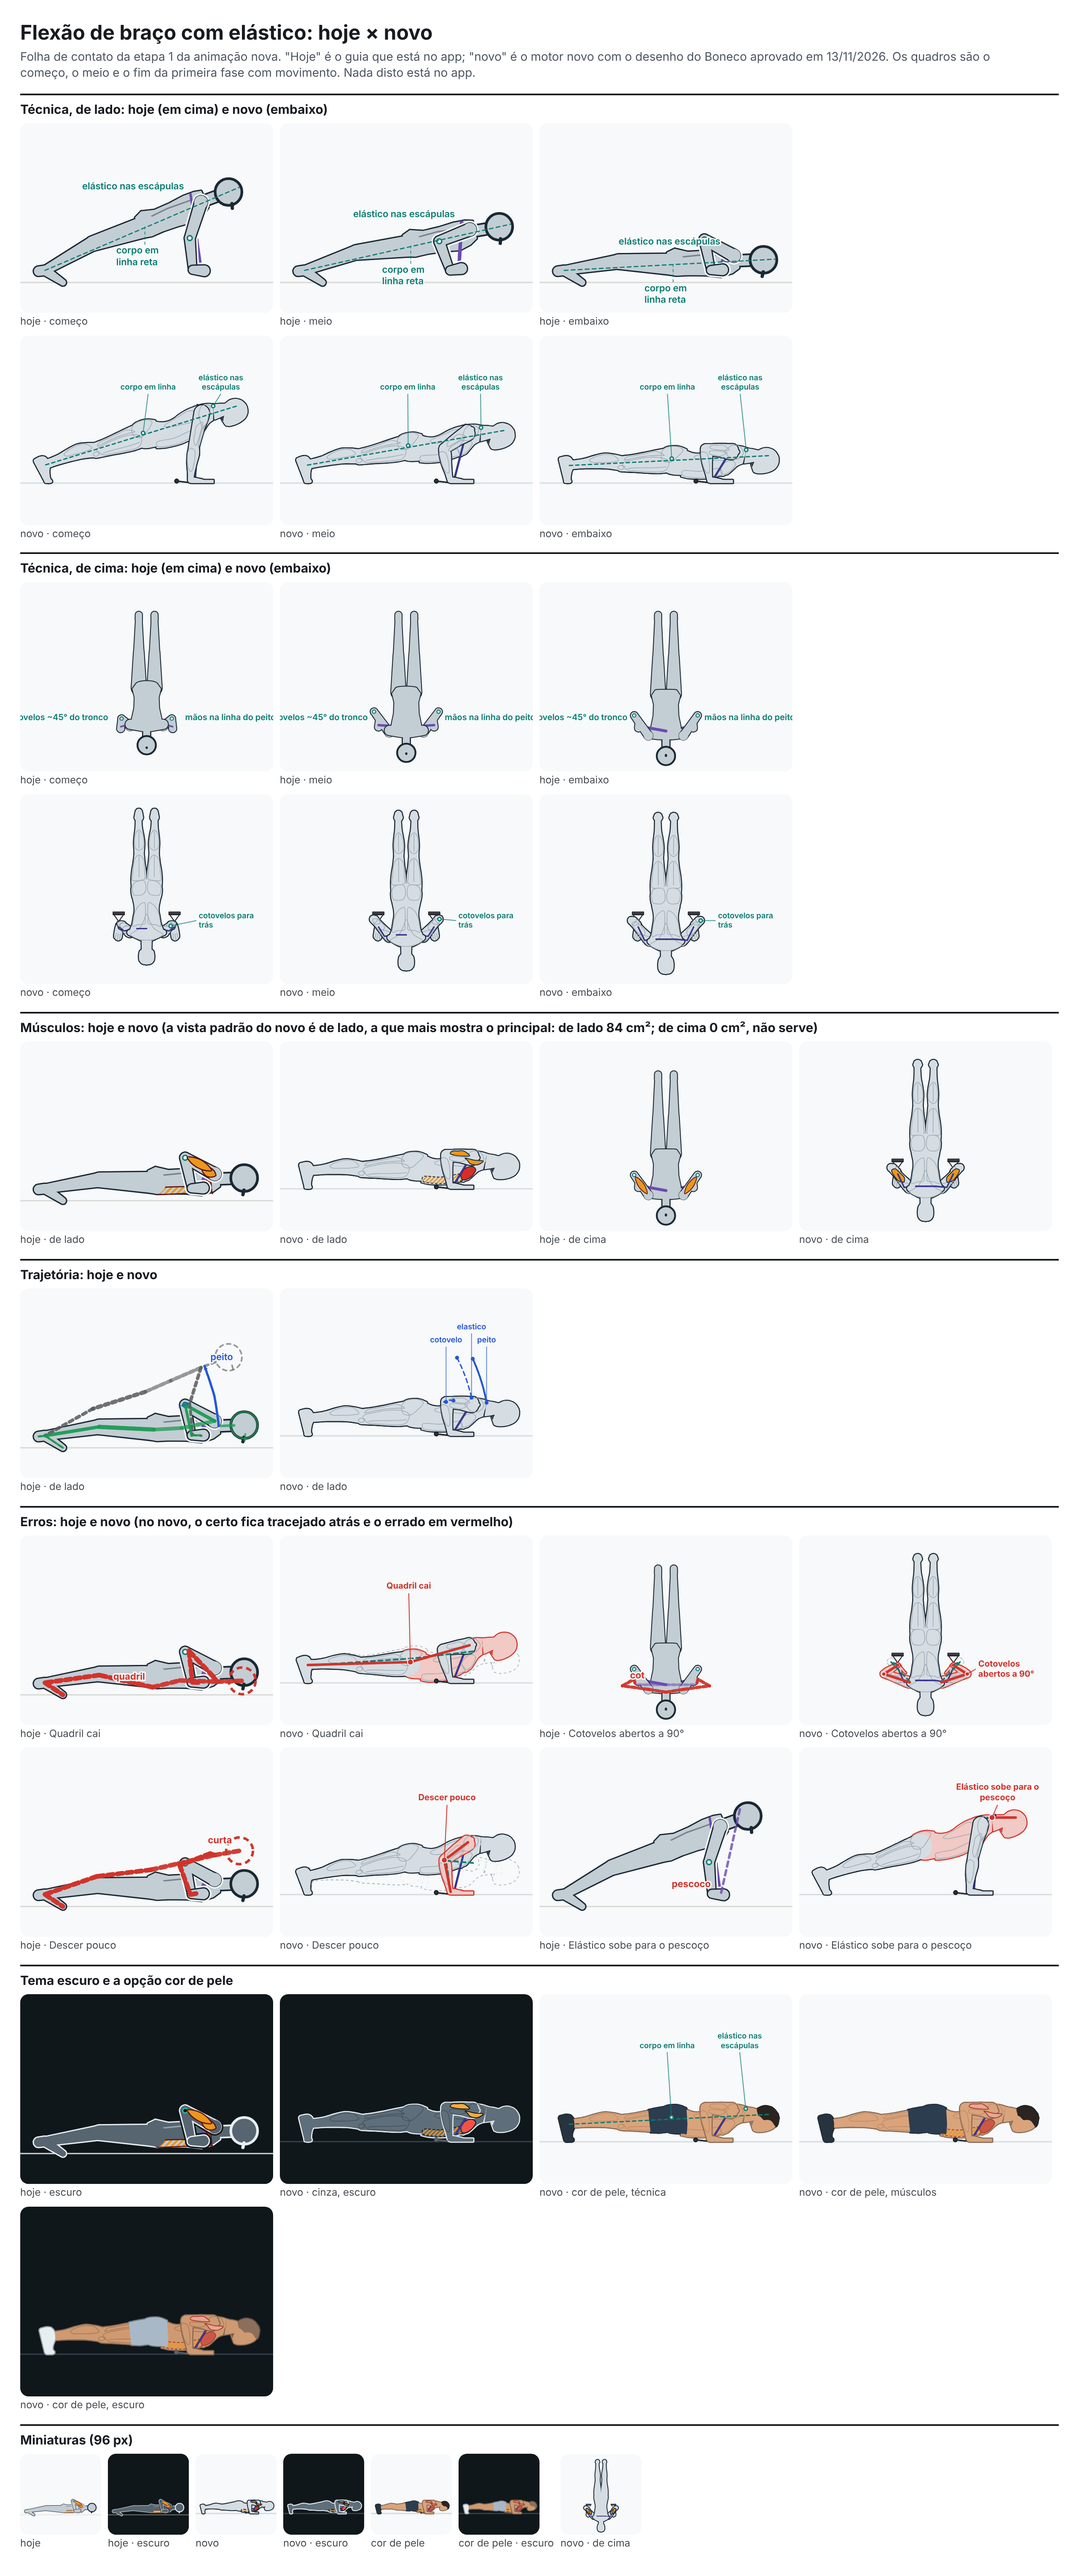
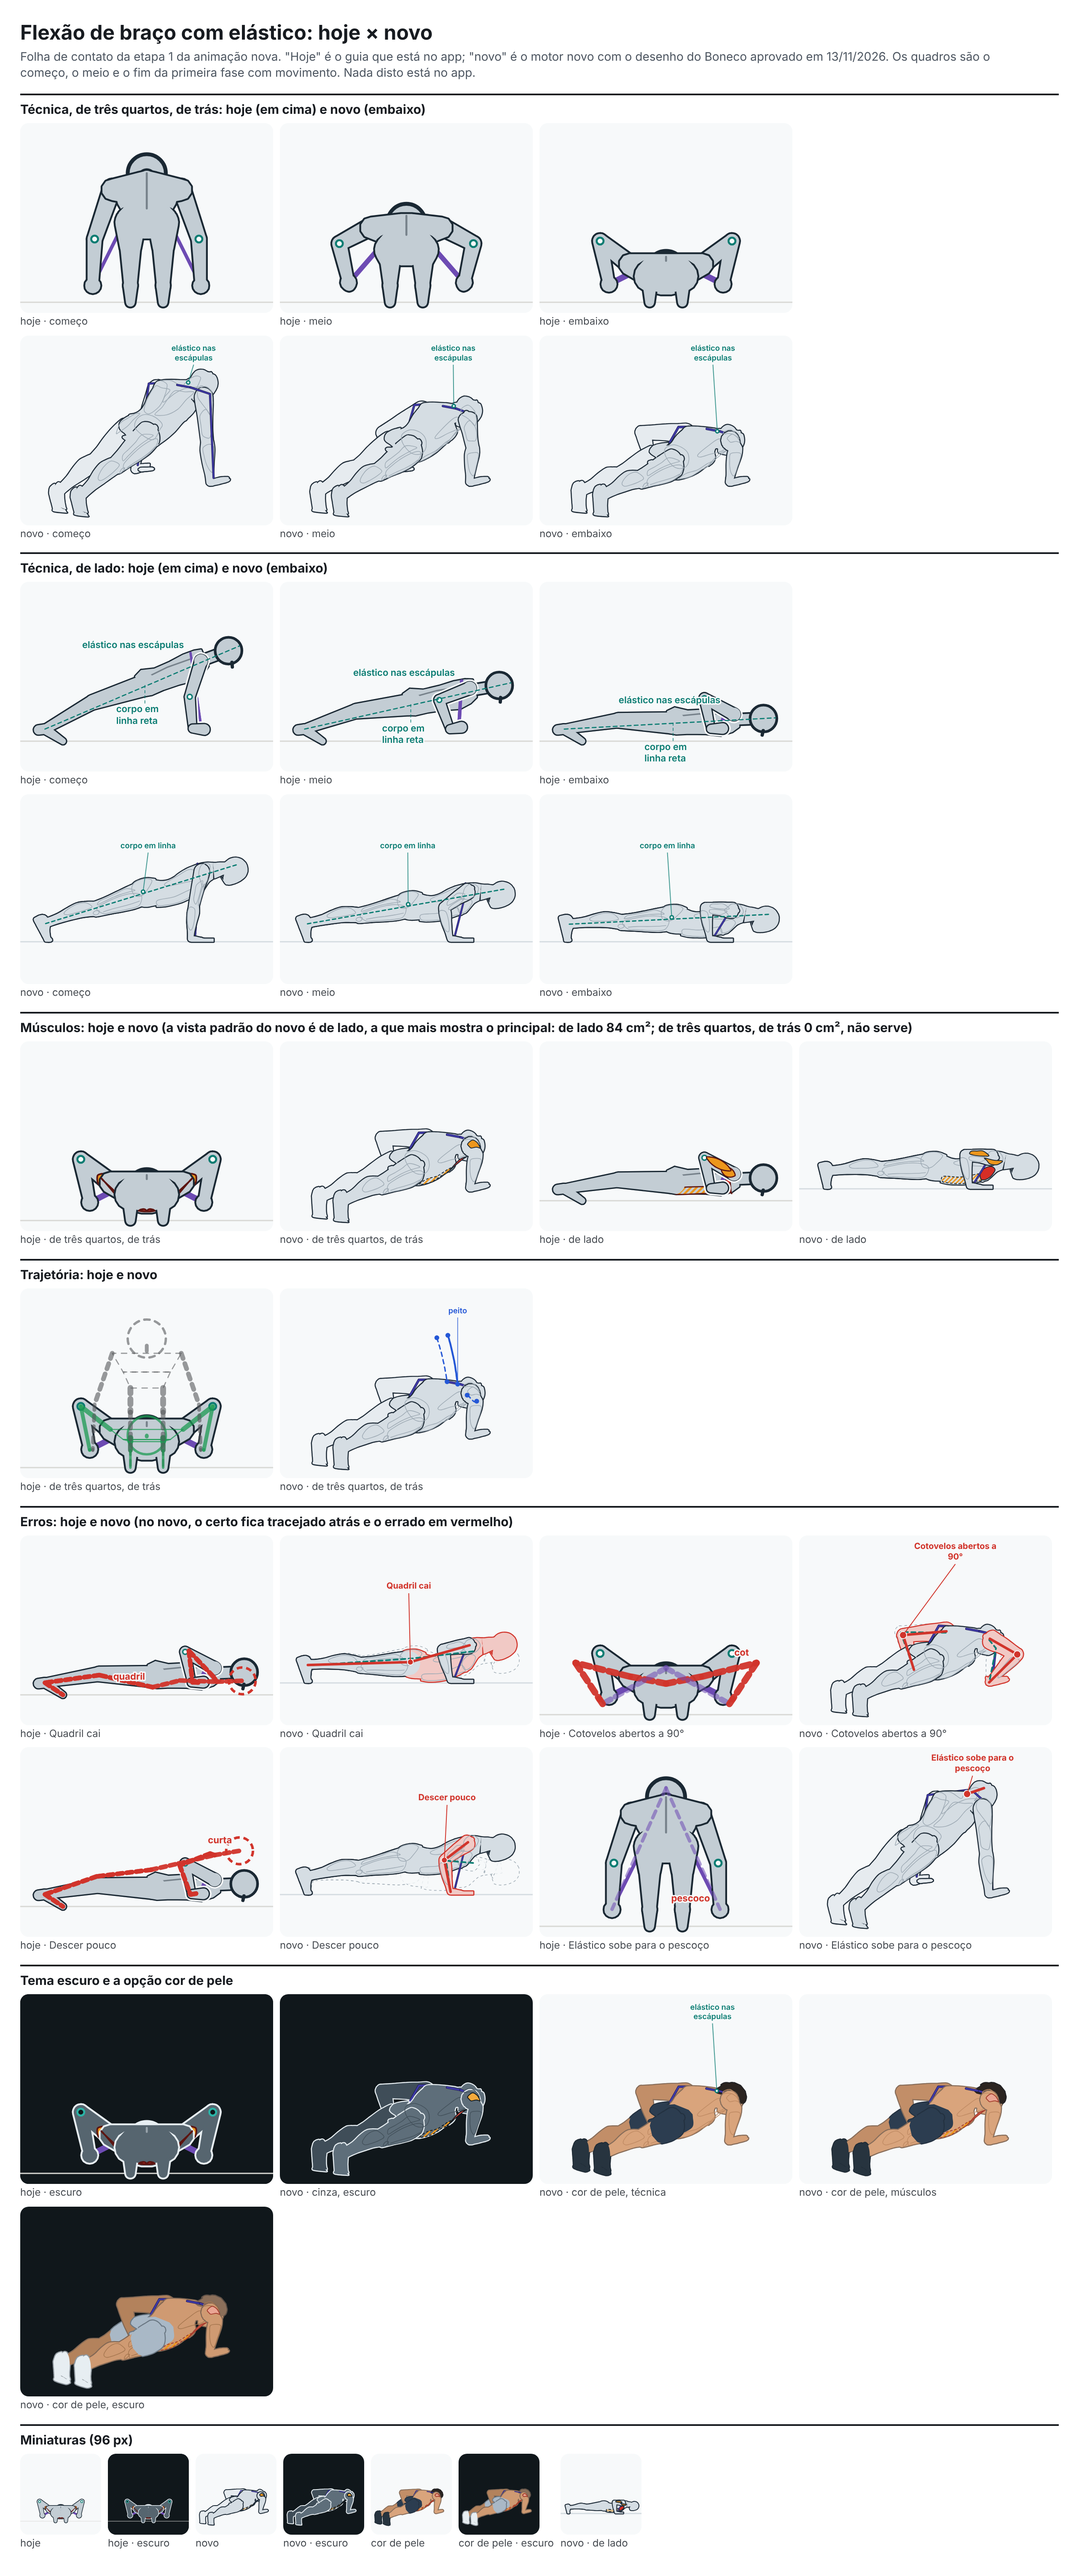
Correção: flexão com elástico vista de três quartos por trás, onde o elástico aparece
De lado o elástico sumia atrás do braço: a vista padrão passa a ser a de três quartos
de trás, e a de lado fica como segunda. Sai o pegador no chão (lia-se como halter);
o erro do pescoço não pinta mais o corpo.

Claude-Session: https://claude.ai/code/session_01YRzts7dTzBdkrmTDEnq8bW

diff --git a/src/engine/novo/exercicios/flexao-elastico.ts b/src/engine/novo/exercicios/flexao-elastico.ts
@@ -2,7 +2,7 @@
 // movimento é o da flexão (núcleo ./flexionar.ts). O elástico é o tubo da tabela de objetos: o meio dele passa pelas
 // costas, na altura das escápulas, e cada ponta dá uma volta na mão e fica presa entre a palma e o chão. O tubo
 // segue a pele das costas (medida na superfície do Boneco), desce pelo lado de fora do braço até o dorso da mão, e
-// estica mais em cima, onde as costas ficam mais longe do chão. O pegador fica no chão, ao lado da mão.
+// estica mais em cima, onde as costas ficam mais longe do chão.
 import ficha from '../dados/movimentos/flexao-elastico.json';
 import { pontosDoBoneco } from '../boneco';
 import { sinal } from '../esqueleto';
@@ -57,13 +57,8 @@ function cena(q: Quadro, corpo: Corpo, _u: number, erro?: string): void {
   // o tubo inteiro: o caminho entre as mãos e uma volta em cada mão
   const comp = caminho + 2 * f('elastico.voltaNaMao');
   const pecas: Peca[] = [{ t: 'elastico', pts, estica: comp / obj('elastico', 'comp') }];
-  for (const k of ['R', 'L'] as Lado[]) {
-    // o pegador no chão, logo atrás da mão (para o lado dos pés), preso à ponta do tubo que sai debaixo da palma
-    const P = palma(k),
-      saida: V3 = [P[0], P[1], e.lado[k].punho[2] - corpo.m('raio.punho')];
-    const pegada: V3 = [P[0], obj('elastico', 'pegadorDiam') / 2, saida[2] - obj('elastico', 'fita')];
-    pecas.push({ t: 'pegador', pegada, eixo: [1, 0, 0], ponta: saida });
-  }
+  // Sem pegador à vista: a ponta dá a volta na mão e fica presa sob a palma (o "elástico longo" do texto do app). O
+  // pegador no chão, ao lado da mão, se lia como um halter e cruzava o corpo na vista de três quartos.
   q.pecas = [...(q.pecas ?? []), ...pecas];
   q.prims.push({ t: 'fio', pts, larg: obj('elastico', 'tuboDiam'), cls: 'fita' });
   q.fios.push({ id: 'elastico', comp, estica: true });
@@ -75,7 +70,7 @@ const A = criarFlexao(ficha, { cena });
 
 export const flexaoElastico: Exercicio = {
   ficha: A.ficha,
-  vistas: ['lateral', 'cima'],
+  vistas: ['quinaTras', 'lateral'],
   quadro: A.quadro,
   // peito principal; tríceps e frente do ombro secundários; o abdômen "só ajuda" (como na flexão e na animação de hoje)
   papeis: { peitoral: 'p', deltAnt: 's', triceps: 's', abdomen: 'a' },

diff --git a/docs/revisoes/animacao-nova/lote-2/flexao-elastico.md b/docs/revisoes/animacao-nova/lote-2/flexao-elastico.md
@@ -1,6 +1,6 @@
 # Lote 2 · Flexão de braço com elástico (`flexao-elastico`)
 
-De 15/11/2026. Terceira animação do lote 2. Ainda não aprovada nem ligada às telas do app.
+De 15/11/2026, revista na rodada de correção do mesmo dia (o elástico não aparecia de lado: a vista padrão passou a ser a de três quartos, de trás; o pegador no chão saiu). Terceira animação do lote 2. Ainda não aprovada nem ligada às telas do app.
 
 - Ficha da técnica: `docs/pesquisa/animacoes/flexao-elastico.md`.
 - Ficha de movimento: `src/engine/novo/dados/movimentos/flexao-elastico.json`.
@@ -10,9 +10,9 @@ De 15/11/2026. Terceira animação do lote 2. Ainda não aprovada nem ligada às
 
 ## O elástico: o tubo, e não a faixa
 
-A ficha diz "elásticos (qualquer intensidade)" e o texto do app, "um elástico com pegadores ou um elástico longo". Usei o **elástico em tubo com pegadores** da tabela de objetos (o do `agachamento-elastico`, aprovado: 121,9 cm de tubo, alongamento máximo de 3 vezes, medidas de fabricante). Não fiz a faixa chata: o texto do app aceita o tubo, e ele já tem medida com fonte; a faixa longa seria um objeto novo sem ficha de fabricante lida. O tubo afina ao esticar (o desenho do `elastico` do motor).
+A ficha diz "elásticos (qualquer intensidade)" e o texto do app, "um elástico com pegadores ou um elástico longo". Usei o **elástico em tubo** da tabela de objetos (o do `agachamento-elastico`, aprovado: 121,9 cm de tubo, alongamento máximo de 3 vezes, medidas de fabricante). Não fiz a faixa chata: o texto do app aceita o tubo, e ele já tem medida com fonte; a faixa longa seria um objeto novo sem ficha de fabricante lida. O tubo afina ao esticar (o desenho do `elastico` do motor).
 
-Como ele fica: o meio passa pelas costas, sobre a pele (medida na superfície do Boneco), 12 cm abaixo da base do pescoço; de cada lado, passa por fora da parte de trás do ombro e desce até o dorso da mão; dá uma volta na mão (22 cm de tubo por volta, que entram na conta do alongamento) e a ponta fica presa sob a palma. O pegador sobra no chão, logo atrás da mão.
+Como ele fica: o meio passa pelas costas, sobre a pele (medida na superfície do Boneco), 12 cm abaixo da base do pescoço; de cada lado, passa por fora da parte de trás do ombro e desce até o dorso da mão; dá uma volta na mão (22 cm de tubo por volta, que entram na conta do alongamento) e a ponta fica presa sob a palma. Os pegadores não aparecem: a ponta dá a volta na mão e fica sob a palma, como o "elástico longo" do texto do app. Na primeira entrega, o pegador ficava no chão atrás da mão; ele se lia como um halter e, de três quartos, ficava pintado por cima da coxa.
 
 ## O que a fonte pede × o que o boneco faz (medido) × confere?
 
@@ -25,16 +25,16 @@ Como ele fica: o meio passa pelas costas, sobre a pele (medida na superfície do
 | Subida ~1 s até os braços estenderem | consenso | 1,0 s; em cima, o cotovelo dobra 10° | sim |
 | O elástico estica mais em cima | consenso (física) | estica 1,7 vez em cima (206,6 cm) e 1,2 vez embaixo (149,7 cm); nunca frouxo, longe das 3 vezes do fabricante | sim |
 
-Conferência automática: **0 falha**. Avisos: os mesmos da `flexao` (extensão do punho 94,3°, dedos do pé 76,1°, ritmo com salto de 16,2%, o abdômen listrado fora da lista do conteúdo, a vista de cima que não serve ao modo Músculos), mais as linhas de desenho da ficha (`elastico.voltaNaMao`, `elastico.folgaNasCostas`, `elastico.atrasDoOmbro`, além de `tornozelo.dorsiflexao` e `escapula.retracaoEmbaixo`).
+Conferência automática: **0 falha**. Avisos: os mesmos da `flexao` (extensão do punho 94,3°, dedos do pé 76,1°, ritmo com salto de 16,2%, o abdômen listrado fora da lista do conteúdo, a vista de três quartos, de trás, que não serve ao modo Músculos: o modo Músculos usa a de lado, com 84 cm²), mais as linhas de desenho da ficha (`elastico.voltaNaMao`, `elastico.folgaNasCostas`, `elastico.atrasDoOmbro`, além de `tornozelo.dorsiflexao` e `escapula.retracaoEmbaixo`).
 
 ## Erros
 
 | Erro (texto do app) | O que o boneco faz (medido) |
 |---|---|
 | Quadril cai (de lado) | o da `flexao`: a lombar arqueia 16°; ombro, quadril e tornozelo fazem 166°; a barriga para a 1 cm do chão |
-| Cotovelos abertos a 90° (de cima) | embaixo, o braço faz 72° com o tronco, visto de cima (o certo: 44°) |
+| Cotovelos abertos a 90° (de três quartos, de trás) | embaixo, o braço faz 72° com o tronco, visto de cima (o certo: 44°); de três quartos, os dois cotovelos se veem abertos |
 | Descer pouco (de lado) | para na metade: o peito fica a 16 cm do chão, o cotovelo dobra 78° |
-| Elástico sobe para o pescoço (de lado) | o corpo é o certo; o meio do elástico passa 3 cm acima da base do pescoço. O quadro parado é o de cima (instante 0), onde o elástico está mais esticado |
+| Elástico sobe para o pescoço (de três quartos, de trás) | o corpo é o certo e não fica pintado (só o elástico muda); o meio do elástico passa 3 cm acima da base do pescoço. O quadro parado é o de cima (instante 0), onde o elástico está mais esticado |
 
 ## Músculos
 
@@ -44,16 +44,29 @@ Principal: peitoral; secundários: tríceps e frente do ombro (biblioteca); o ab
 
 - 05/11/2026: o erro `pescoco` ("erro pequeno"), pedido pelo cartão. Respeitado.
 - 05/11/2026: o elástico afina quando estica e passa onde a ficha diz (aqui, pelas costas). Respeitado com o tubo.
-- 05/11/2026: "de cima, a faixa da flexão aparece só como dois trechos curtos". Aqui, de cima, o elástico aparece inteiro: atravessa as costas e desce pelos ombros até as mãos.
+- 05/11/2026: "de cima, a faixa da flexão aparece só como dois trechos curtos". Aqui, de três quartos por trás, o elástico aparece inteiro: atravessa as costas e desce pelos ombros até as mãos.
 
-## O que não ficou bom
+## As vistas (rodada de correção)
 
-- **De lado, o elástico quase não aparece em cima**: o trecho de perto fica atrás do braço estendido; aparece no meio da descida e embaixo.
-- **A volta na mão não é desenhada**: o tubo termina no dorso da mão e a ponta sob a palma; o pegador sobra no chão, atrás da mão. Quem olha pode não entender que o elástico está preso pela mão.
-- **O erro "elástico sobe para o pescoço"** de lado é discreto: o corpo inteiro fica em vermelho claro e o tubo no pescoço se vê pouco.
+Testei de lado, de cima, de três quartos (`quina`), de três quartos de trás (`quinaTras`) e de trás (`posterior`). De lado, em cima, o elástico some atrás do braço. De cima, aparece só nas costas. De trás, o corpo vira um borrão de pernas. A de três quartos de trás mostra o elástico atravessando as escápulas e descendo pelos braços, do começo ao fim. Ela passou a ser a vista padrão (Técnica), com o rótulo "elástico nas escápulas". A de lado fica como segunda, para o corpo em linha, o quadril e a descida. O rótulo "cotovelos para trás" saiu, porque de três quartos o fio dele cruzava o corpo.
+
+## Os nove itens do padrão (seção 8 do guia), nos quadros grandes
+
+1. **Corpo:** a prancha da `flexao` aprovada.
+2. **Rosto:** embaixo, a cabeça fica a 7,9 cm do chão.
+3. **Quadro:** o corpo ocupa o quadro.
+4. **Vistas:** ver acima.
+5. **Equipamento:** o tubo do gerador realista, que afina ao esticar.
+6. **Mãos:** espalmadas, com a ponta do elástico sob a palma.
+7. **Erros:** os quatro se leem; o do pescoço não pinta mais o corpo.
+8. **Rótulos:** um por vista.
+9. **Tema escuro e cor de pele:** olhados.
+
+## O que não ficou bom (com o que tentei)
+
+- **A volta na mão não é desenhada**: o tubo termina no dorso da mão. O motor não tem um tubo que contorne a mão; o comprimento da volta (22 cm de cada lado) entra na conta do alongamento.
 - O elástico não entra no equilíbrio (ele empurra o corpo para baixo; a conferência não mede isso).
-- O tubo é uma linha quebrada em poucos trechos nas costas (uma quina nos ombros).
 
 ## Risco de o Gustavo não gostar
 
-**Médio.** O corpo é o da `flexao` aprovada e o elástico tem medidas reais e estica do jeito certo; mas a leitura do elástico (de lado, escondido pelo braço; a volta na mão que não aparece; o pegador no chão) é nova e pode não convencer.
+**Médio.** O corpo é o da `flexao` aprovada, e o elástico agora aparece inteiro na vista padrão. A vista de três quartos de trás é nova nas flexões, e a volta na mão não aparece.
